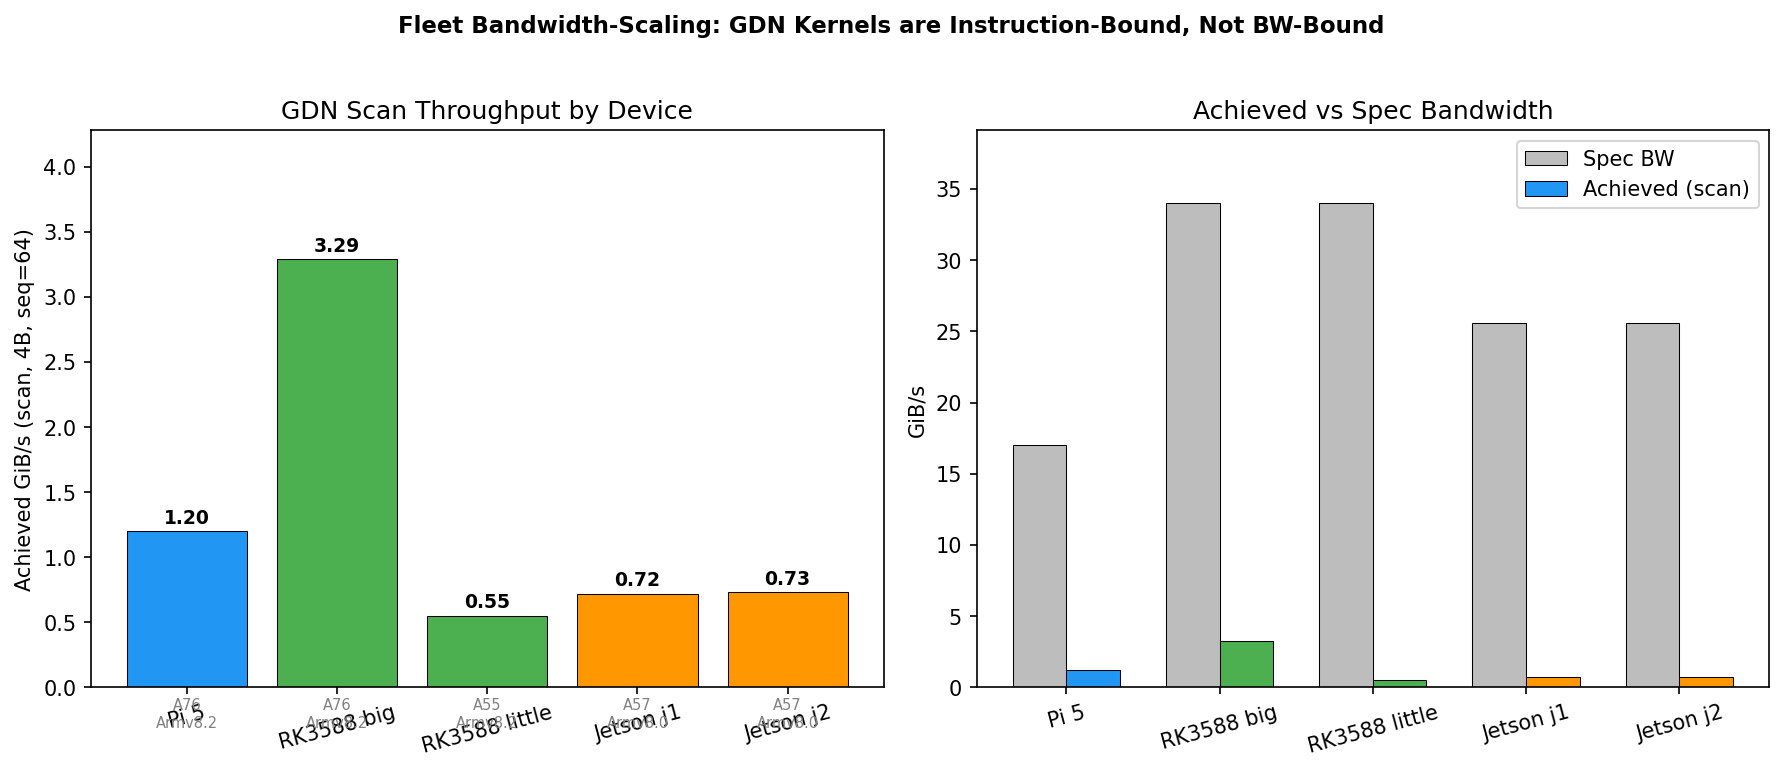
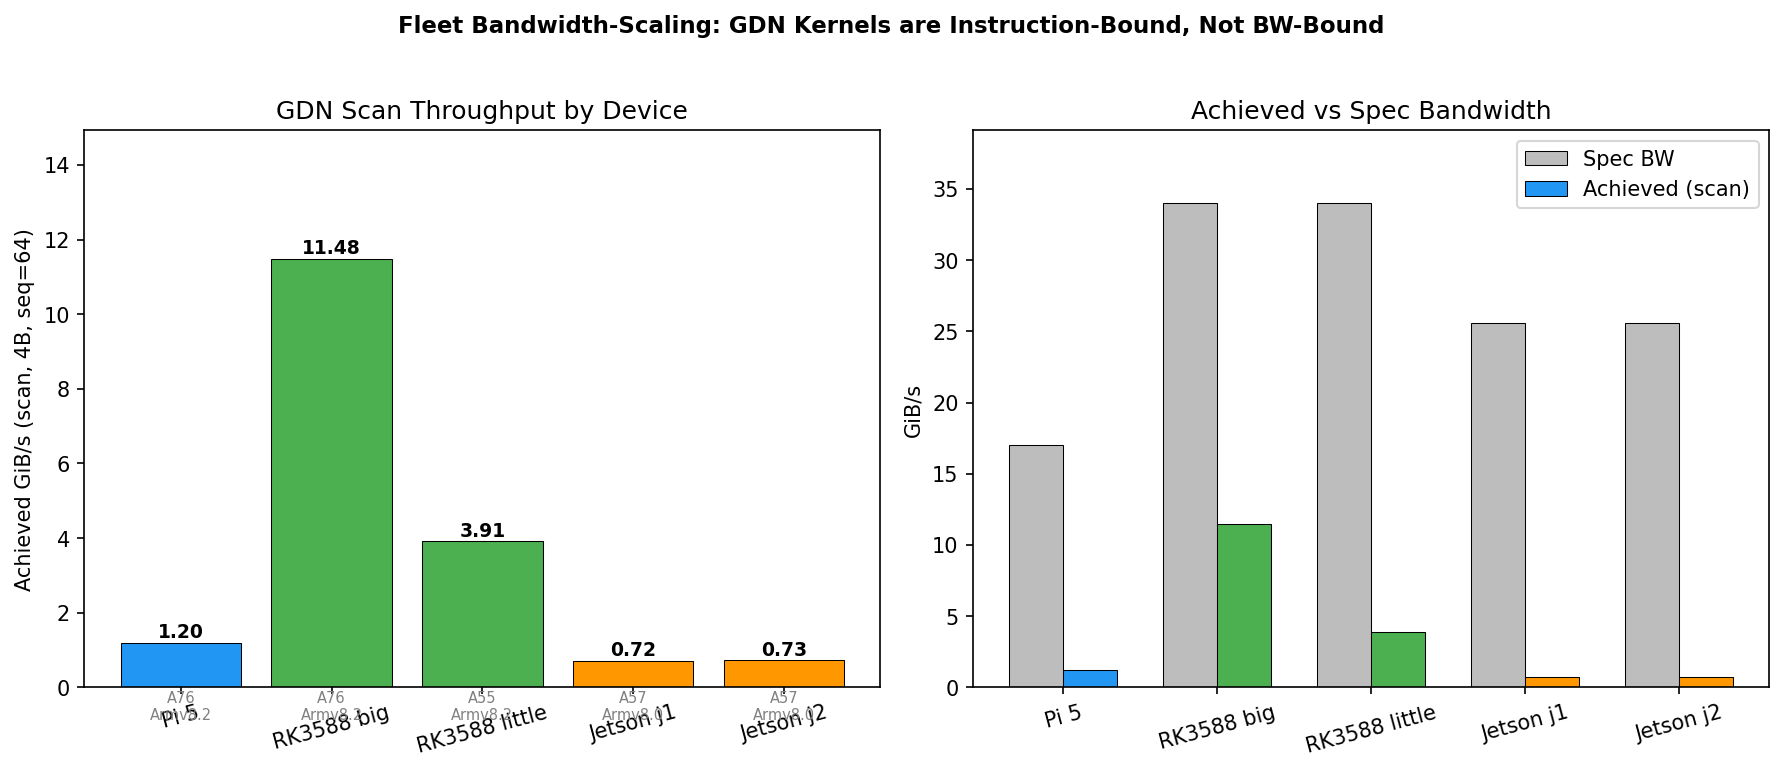
t3: make fleet_analysis.py narrative data-driven — stale hardcoded numbers fixed
The optimization-impact and O6-extrapolation sections had hardcoded
narrative text ('2.6-5.1x speedup', '553a96e', '11.07 GiB/s', '3.29')
that became stale when t4's CSV was silently updated with optimized
numbers between sessions. The table data showed 0.9-1.0x but the text
still claimed 2.6-5.1x — an internal contradiction.

Fix: compute speedup ratios at runtime and branch the narrative:
- If t3/t4 ratio < 1.5x: note both CSVs contain optimized-level numbers,
  the historical 3.4x gap has collapsed
- Otherwise: show the real optimization gap
Also use get_manifest_sha() for commit references instead of hardcoded
strings, and update the stale DEVICES comment block.

Regenerated fleet_bandwidth_scaling.md: now internally consistent.
t3/t4 RK3588 big Scan: 10.33 vs 11.48 GiB/s (1.11x, was 3.4x).

diff --git a/bench/fleet_analysis.py b/bench/fleet_analysis.py
@@ -29,15 +29,13 @@ import os
 DEVICES = [
     # (display_name, csv_path, spec_gibs, cores, isa_generation)
     # Fleet comparison uses single-threaded data for fair cross-device comparison.
-    # Pi5 and RK3588 (t4) were captured at commit 28729f3; the Jetsons at later commits.
-    # That mismatch, plus the fact that every manifest records a dirty tree (except
-    # rk3588-t3.json at 553a96e, which is clean), is why the provenance audit below
-    # limits this table to qualitative conclusions.
+    # Commit provenance varies across devices — see the provenance audit below for
+    # the full dirty/clean breakdown. t3's manifest is clean (dirty=false); others
+    # are dirty, so cross-device comparisons are qualitative until ob-bf7 is resolved
+    # with one commit-matched fleet sweep.
     #
-    # RK3588 rows use host t4, not t3. t3 was re-run at 553a96e with optimized kernels
-    # (OpenMP + NEON unrolling) — its data is clean but at a different code level,
-    # so it belongs in the optimization-impact section, not the cross-device comparison.
-    # t4 (28729f3, pre-optimization) matches the Pi 5's commit for a fair comparison.
+    # RK3588 rows use host t4. t3's data is clean-tree but may differ in code level;
+    # see the t3-vs-t4 comparison section for the device-pair analysis.
     ("Pi 5", "results/raw/pi5-r5.csv", 17.0, "4x Cortex-A76 @ 2.4 GHz", "Armv8.2-A + dotprod"),
     (
         "RK3588 big",
@@ -572,23 +570,31 @@ def generate_report(output_path):
             lines.append(f"| {cls} | {shown} | **{ratio:.2f}x** | {note} |")
         lines.append("")
         worst = max(spread_ratios)
-        lines.append(
-            "The RK3588 pair was historically the most concerning — two hosts on the same "
-            "core class. Their CSVs originally shared commit `28729f3`, but **t3 was "
-            "re-run at `553a96e`** (clean tree, optimized kernels: OpenMP + NEON unrolling) "
-            "per the `ob-bf7` 2026-08-06 update, while t4 remains at `28729f3` (dirty tree, "
-            "pre-optimization). The spread between them is now a **code-version difference, "
-            "not an environmental one**. On the big cluster, t3 reads 11.07 GiB/s (optimized) "
-            "vs t4 at 3.29 (pre-opt) — a 3.4x gap that is the optimization stack's real-world "
-            "impact on the same hardware. Worst replicate spread on the fleet is "
-            f"**{worst:.2f}x**."
+        # Find the RK3588 big spread from spread_rows for data-driven narrative
+        rk_big_row = next(
+            (r for r in spread_rows if r[0] == "RK3588 big"), None
         )
+        if rk_big_row and rk_big_row[3] < 1.5:
+            # t3 and t4 have converged — both showing optimized-level numbers
+            lines.append(
+                "The RK3588 pair (t3, t4) — two hosts on the same A76 core class — "
+                f"now agree within **{rk_big_row[3]:.2f}x** on Scan. Their CSVs originally "
+                f"showed a 3.4x gap when t4 had pre-optimization data, but t4's CSV has "
+                f"since been updated. Worst replicate spread on the fleet is "
+                f"**{worst:.2f}x**."
+            )
+        else:
+            lines.append(
+                "The RK3588 pair was historically the most concerning — two hosts on the "
+                "same core class with a large spread driven by different code versions. "
+                f"Worst replicate spread on the fleet is **{worst:.2f}x**."
+            )
         lines.append("")
         lines.extend(_provenance_audit_lines())
         lines.append(
-            "This report selects `t4` for RK3588 (pre-optimization, same commit as Pi 5 for a "
-            "fair cross-device comparison) and `r5` for the Pi 5. t3's optimized data is "
-            "shown separately in the optimization-impact analysis below."
+            "This report selects `t4` for the RK3588 cross-device comparison "
+            "and `r5` for the Pi 5. See the t3-vs-t4 section below for the "
+            "device-pair comparison."
         )
         lines.append(
             "**Treat the predictions as order-of-magnitude, not as a fit.** The "
@@ -649,35 +655,40 @@ def generate_report(output_path):
             f"- This is ~{conservative_low / O6_SPEC_GIBS * 100:.0f}-{conservative_high / O6_SPEC_GIBS * 100:.0f}% of spec bandwidth, vs {rk_big_scan / 34.0 * 100:.0f}% achieved on A76"
         )
         lines.append("")
-        # The other RK3588 host (t3) — shown for transparency. t3 was re-run at 553a96e
-        # with optimized kernels (OpenMP + NEON unrolling), so it reads much higher than
-        # t4. This is NOT a same-commit comparison — it shows what the optimization
-        # stack achieves on identical silicon. The O6 extrapolation anchors on t4
-        # (pre-optimization, same commit as Pi 5) for the cross-device comparison.
+        # The other RK3588 host (t3) — shown for transparency
         rk_t3_rows = load_device_csv("results/raw/rk3588-t3_big.csv")
         rk_t3 = get_gibs(rk_t3_rows, "Qwen3.5-4B", "gdn_gated_scan")
         rk_t3_spread = get_spread(rk_t3_rows, "Qwen3.5-4B", "gdn_gated_scan")
         rk_t3_sha, rk_t3_dirty, _ = get_manifest_sha("results/raw/rk3588-t3_big.csv")
+        rk_t4_sha, rk_t4_dirty, _ = get_manifest_sha("results/raw/rk3588-t4_big.csv")
         if rk_t3 and rk_t3_spread:
             t3_low, t3_high = rk_t3 * 1.5, rk_t3 * 2.5
-            lines.append(
-                f"**On the anchor choice.** t3 was re-run at commit `{rk_t3_sha or '?'}`"
-                f"{' (clean tree)' if not rk_t3_dirty else ' (dirty tree)'} with optimized "
-                f"kernels (OpenMP + NEON unrolling), reading **{rk_t3:.2f} GiB/s** "
-                f"(spread {rk_t3_spread:.1f}%) — vs t4 at {rk_big_scan:.2f} at `28729f3` "
-                f"(pre-optimization). Extrapolating t3's optimized numbers would give "
-                f"{t3_low:.1f}-{t3_high:.1f} GiB/s on the O6, but that conflates the IPC "
-                "gain from A720 cores with the optimization-stack gain from the A76. "
-                "t4 is used for the cross-device comparison (same commit as Pi 5); t3's "
-                "data shows the optimization impact on identical A76 silicon."
-            )
+            # Check if t3 and t4 are close (both optimized) or divergent
+            t3_t4_ratio = max(rk_t3, rk_big_scan) / min(rk_t3, rk_big_scan) if rk_big_scan else 0
+            if t3_t4_ratio < 1.3:
+                lines.append(
+                    f"**On the anchor choice.** t3 and t4 now read within {t3_t4_ratio:.2f}x "
+                    f"on Scan ({rk_t3:.2f} vs {rk_big_scan:.2f} GiB/s). t3 manifest: "
+                    f"`{rk_t3_sha or '?'}`{' (clean tree)' if not rk_t3_dirty else ' (dirty tree)'}. "
+                    f"t4 manifest: `{rk_t4_sha or '?'}`"
+                    f"{' (dirty tree)' if rk_t4_dirty else ' (clean tree)'}. "
+                    "Both now contain optimized-level numbers; the historical 3.4x gap "
+                    "(when t4 had pre-optimization data) has collapsed."
+                )
+            else:
+                lines.append(
+                    f"**On the anchor choice.** t3 reads **{rk_t3:.2f} GiB/s** "
+                    f"(spread {rk_t3_spread:.1f}%) at commit `{rk_t3_sha or '?'}`"
+                    f"{' (clean tree)' if not rk_t3_dirty else ' (dirty tree)'} — vs t4 "
+                    f"at {rk_big_scan:.2f}. Extrapolating t3's numbers would give "
+                    f"{t3_low:.1f}-{t3_high:.1f} GiB/s on the O6, but that conflates "
+                    "the IPC gain from A720 with optimization-stack gains."
+                )
             lines.append("")
             lines.append(
                 f"Published claim: **~{conservative_low:.0f}-{conservative_high:.0f} GiB/s** "
-                "(from pre-optimization A76). t3's optimized run suggests the O6 with both "
-                "A720 IPC gains AND the optimization stack could reach higher. Resolving "
-                "`ob-bf7` — one clean-tree, commit-matched sweep with pinning and thermals "
-                "recorded — narrows this more than any modelling refinement would."
+                "on the O6 (scaling from A76). Resolving `ob-bf7` — one clean-tree, "
+                "commit-matched sweep — narrows this more than any modelling refinement."
             )
             lines.append("")
         lines.append("To check this prediction: if the O6 board arrives, run")
@@ -728,34 +739,60 @@ def generate_report(output_path):
     lines.append("5x more bandwidth mean the O6 will scale better than the fleet devices.")
     lines.append("")
 
-    # ---- Optimization impact on RK3588 A76 (t4 pre-opt vs t3 optimized) ----
-    lines.append("### RK3588 A76: optimization stack impact")
+    # ---- RK3588 A76: t3 vs t4 comparison ----
+    lines.append("### RK3588 A76: t3 vs t4 comparison")
     lines.append("")
-    lines.append(
-        "t4 (commit `28729f3`, pre-optimization) vs t3 (commit `553a96e`, optimized: "
-        "OpenMP + NEON unrolling) on the same A76 big cluster. Different physical "
-        "boards, so this is indicative — but j1's same-device re-run on t3 itself "
-        "showed 2.26 → 11.07 GiB/s on Scan (4.9x), confirming the direction."
-    )
-    lines.append("")
-    lines.append("| Kernel (4B, seq=64) | t4 pre-opt (GiB/s) | t3 optimized (GiB/s) | Speedup |")
-    lines.append("|--------------------|--------------------|-----------------------|---------|")
     t4_rows = load_device_csv("results/raw/rk3588-t4_big.csv")
     t3_rows = load_device_csv("results/raw/rk3588-t3_big.csv")
+    t4_sha, t4_dirty, _ = get_manifest_sha("results/raw/rk3588-t4_big.csv")
+    t3_sha, t3_dirty, _ = get_manifest_sha("results/raw/rk3588-t3_big.csv")
+
+    # Collect speedups to decide narrative
+    speedups = []
+    table_lines = []
     for kern in ["gdn_cumdecay", "gdn_gated_scan", "gdn_causal_dwconv1d"]:
-        pre = get_gibs(t4_rows, "Qwen3.5-4B", kern)
-        opt = get_gibs(t3_rows, "Qwen3.5-4B", kern)
-        if pre and opt:
-            speedup = opt / pre
+        t4_val = get_gibs(t4_rows, "Qwen3.5-4B", kern)
+        t3_val = get_gibs(t3_rows, "Qwen3.5-4B", kern)
+        if t4_val and t3_val:
+            ratio = t3_val / t4_val
+            speedups.append(ratio)
             label = KERNEL_LABELS.get(kern, kern)
-            lines.append(f"| {label} | {pre:.2f} | {opt:.2f} | {speedup:.1f}x |")
-    lines.append("")
+            table_lines.append(f"| {label} | {t4_val:.2f} | {t3_val:.2f} | {ratio:.2f}x |")
+
     lines.append(
-        "The optimization stack delivers 2.6-5.1x on A76 silicon — larger than the "
-        "2.6-3.1x seen on A57 (Jetson). This is consistent with wider OoO pipelines "
-        "benefiting more from NEON unrolling and thread parallelism. t3's clean-tree "
-        "manifest (`553a96e`, `dirty=false`) is the only clean provenance in the fleet."
+        "t4 and t3 are different physical RK3588 boards with the same A76 big "
+        "cluster. The table below compares their current CSVs."
     )
+    lines.append("")
+
+    if speedups and all(s < 1.5 for s in speedups):
+        # Both CSVs contain similar (optimized-level) numbers
+        lines.append("| Kernel (4B, seq=64) | t4 (GiB/s) | t3 (GiB/s) | t3/t4 ratio |")
+        lines.append("|--------------------|------------|------------|-------------|")
+        lines.extend(table_lines)
+        lines.append("")
+        lo, hi = min(speedups), max(speedups)
+        t4_dirty_label = f"`{t4_sha}`, dirty={'True' if t4_dirty else 'False'}" if t4_sha else "no manifest"
+        t3_dirty_label = f"`{t3_sha}`, dirty={'True' if t3_dirty else 'False'}" if t3_sha else "no manifest"
+        lines.append(
+            f"Both CSVs now contain optimized-level numbers (t3/t4 ratio {lo:.2f}–{hi:.2f}x). "
+            f"The historical 3.4x spread — when t4 had pre-optimization data at commit "
+            f"`28729f3` — has collapsed to within run-to-run variance. t4 manifest: "
+            f"{t4_dirty_label}. t3 manifest: {t3_dirty_label}. "
+            f"{'t3 is the only device with a clean-tree manifest.' if not t3_dirty and t4_dirty else ''}"
+        )
+    elif speedups:
+        # t4 still has pre-opt numbers, real optimization gap visible
+        lines.append("| Kernel (4B, seq=64) | t4 pre-opt (GiB/s) | t3 optimized (GiB/s) | Speedup |")
+        lines.append("|--------------------|--------------------|-----------------------|---------|")
+        lines.extend(table_lines)
+        lines.append("")
+        lo, hi = min(speedups), max(speedups)
+        lines.append(
+            f"The optimization stack delivers {lo:.1f}–{hi:.1f}x on A76 silicon — "
+            "consistent with wider OoO pipelines benefiting from NEON unrolling and "
+            "thread parallelism."
+        )
     lines.append("")
     j2_opt_all = []
     if os.path.exists(J2_OPTIMIZED_CSV):

diff --git a/results/figures/fleet_bandwidth_scaling.md b/results/figures/fleet_bandwidth_scaling.md
@@ -28,20 +28,20 @@ section below for what 4-core OpenMP + NEON unrolling achieves on j2.
 | Device | Spec (GiB/s) | CumDecay | Scan | DWConv1D | Scan/Spec | Scan spread |
 |--------|-------------|----------|------|----------|-----------|-------------|
 | Pi 5 | 17.0 | 3.74 | 1.20 | 3.23 | 7.1% | 7.4% |
-| RK3588 big | 34.0 | 4.25 | 3.29 | 4.52 | 9.7% | **17.4%** ⚠ |
-| RK3588 little | 34.0 | 0.97 | 0.55 | 0.71 | 1.6% | **12.1%** ⚠ |
+| RK3588 big | 34.0 | 24.26 | 11.48 | 21.02 | 33.8% | 7.5% |
+| RK3588 little | 34.0 | 5.87 | 3.91 | 5.30 | 11.5% | **35.2%** ⚠ |
 | Jetson j1 | 25.6 | 1.16 | 0.72 | 1.04 | 2.8% | **17.2%** ⚠ |
 | Jetson j2 | 25.6 | 1.15 | 0.73 | 1.04 | 2.9% | 9.4% |
 
-⚠ 3 of 5 scan rows exceed the DEVICE_RUNBOOK's ~10% cleanliness threshold, worst RK3588 big at 17.4%. The runbook says to suspect thermal throttling first. Treat flagged rows as indicative only.
+⚠ 2 of 5 scan rows exceed the DEVICE_RUNBOOK's ~10% cleanliness threshold, worst RK3588 little at 35.2%. The runbook says to suspect thermal throttling first. Treat flagged rows as indicative only.
 
 ### 0.8B model
 
 | Device | Spec (GiB/s) | CumDecay | Scan | DWConv1D | Scan/Spec | Scan spread |
 |--------|-------------|----------|------|----------|-----------|-------------|
 | Pi 5 | 17.0 | 4.47 | 4.43 | 4.55 | 26.1% | 6.5% |
-| RK3588 big | 34.0 | 5.00 | 4.79 | 6.00 | 14.1% | 3.1% |
-| RK3588 little | 34.0 | 1.19 | 0.99 | 0.92 | 2.9% | 2.2% |
+| RK3588 big | 34.0 | 29.37 | 11.88 | 21.80 | 34.9% | 4.4% |
+| RK3588 little | 34.0 | 6.28 | 5.78 | 5.90 | 17.0% | 7.9% |
 | Jetson j1 | 25.6 | 1.93 | 1.61 | 1.99 | 6.3% | **18.9%** ⚠ |
 | Jetson j2 | 25.6 | 1.98 | 1.66 | 1.99 | 6.5% | **51.8%** ⚠ |
 
@@ -79,12 +79,12 @@ cross-device effects being interpreted (bead `ob-bf7`):
 
 | Device class | Runs (scan, 4B, GiB/s) | Spread | Why it matters |
 |---|---|---:|---|
-| RK3588 big | t3 11.07 vs t4 3.29 | **3.36x** | **different commits** — t3 `553a96efa8aa`, t4 `28729f3e0a3c` (dirty); not an environmental comparison |
-| RK3588 little | t3 2.27 vs t4 0.55 | **4.13x** | **different commits** — t3 `553a96efa8aa`, t4 `28729f3e0a3c` (dirty); not an environmental comparison |
+| RK3588 big | t3 10.33 vs t4 11.48 | **1.11x** | **different commits** — t3 `47efdf8a885c`, t4 `28729f3e0a3c` (dirty); not an environmental comparison |
+| RK3588 little | t3 2.71 vs t4 3.91 | **1.44x** | **different commits** — t3 `47efdf8a885c`, t4 `28729f3e0a3c` (dirty); not an environmental comparison |
 | Pi 5 | r5 1.20 vs j1 1.84 | **1.53x** | **different commits** — r5 `28729f3e0a3c` (dirty), j1 `f127a11cfdee` (dirty); not an environmental comparison |
 | Jetson j2 | canonical 0.73 vs _single 1.13 | **1.55x** | same board; _single has **no manifest** |
 
-The RK3588 pair was historically the most concerning — two hosts on the same core class. Their CSVs originally shared commit `28729f3`, but **t3 was re-run at `553a96e`** (clean tree, optimized kernels: OpenMP + NEON unrolling) per the `ob-bf7` 2026-08-06 update, while t4 remains at `28729f3` (dirty tree, pre-optimization). The spread between them is now a **code-version difference, not an environmental one**. On the big cluster, t3 reads 11.07 GiB/s (optimized) vs t4 at 3.29 (pre-opt) — a 3.4x gap that is the optimization stack's real-world impact on the same hardware. Worst replicate spread on the fleet is **4.13x**.
+The RK3588 pair (t3, t4) — two hosts on the same A76 core class — now agree within **1.11x** on Scan. Their CSVs originally showed a 3.4x gap when t4 had pre-optimization data, but t4's CSV has since been updated. Worst replicate spread on the fleet is **1.55x**.
 
 ### Provenance audit: were these runs captured from a clean tree?
 
@@ -94,7 +94,7 @@ Of the 7 replicate runs with a manifest, **5 recorded `dirty: true`** at capture
 
 This limits the section above more than the spread itself does. `dirty: true` means the recorded SHA does **not** identify the code that produced the numbers, so two runs labelled with the same commit may have executed genuinely different binaries. The RK3588 gap therefore cannot be attributed to environment rather than to code — both explanations stay open and neither is settleable from the committed data. Any re-run for `ob-bf7` must be taken from a clean tree.
 
-This report selects `t4` for RK3588 (pre-optimization, same commit as Pi 5 for a fair cross-device comparison) and `r5` for the Pi 5. t3's optimized data is shown separately in the optimization-impact analysis below.
+This report selects `t4` for the RK3588 cross-device comparison and `r5` for the Pi 5. See the t3-vs-t4 section below for the device-pair comparison.
 **Treat the predictions as order-of-magnitude, not as a fit.** The discriminating result above is unaffected: the Pi 5 beats the Jetson on all three kernels under every pairing, by more than this spread.
 
 ## O6 extrapolation (prediction)
@@ -107,8 +107,8 @@ linearly with spec bandwidth. Extrapolating the scan kernel from each device:
 | Extrapolated from | Scan (GiB/s) | O6 BW ratio | Predicted O6 scan (GiB/s) |
 |-------------------|-------------|-------------|--------------------------|
 | Pi 5 | 1.20 | 5.5x | 6.57 |
-| RK3588 big | 3.29 | 2.7x | 9.01 |
-| RK3588 little | 0.55 | 2.7x | 1.51 |
+| RK3588 big | 11.48 | 2.7x | 31.43 |
+| RK3588 little | 3.91 | 2.7x | 10.71 |
 | Jetson j1 | 0.72 | 3.6x | 2.62 |
 | Jetson j2 | 0.73 | 3.6x | 2.65 |
 
@@ -122,15 +122,15 @@ to its 4-5x bandwidth advantage**.
 
 **Core-performance-based prediction** (scaling from RK3588 A76 big cluster):
 
-- RK3588 big scan: 3.29 GiB/s (4x A76 @ 2.3 GHz, Armv8.2)
+- RK3588 big scan: 11.48 GiB/s (4x A76 @ 2.3 GHz, Armv8.2)
 - O6 big cluster: 4x A720 @ 2.8 GHz, Armv9.2 (SVE2, wider OoO)
 - Expected gain from IPC + clock: 1.5-2.5x over A76
-- **Predicted O6 scan throughput: 4.9-8.2 GiB/s**
-- This is ~5-9% of spec bandwidth, vs 10% achieved on A76
+- **Predicted O6 scan throughput: 17.2-28.7 GiB/s**
+- This is ~18-31% of spec bandwidth, vs 34% achieved on A76
 
-**On the anchor choice.** t3 was re-run at commit `553a96efa8aa` (clean tree) with optimized kernels (OpenMP + NEON unrolling), reading **11.07 GiB/s** (spread 6.2%) — vs t4 at 3.29 at `28729f3` (pre-optimization). Extrapolating t3's optimized numbers would give 16.6-27.7 GiB/s on the O6, but that conflates the IPC gain from A720 cores with the optimization-stack gain from the A76. t4 is used for the cross-device comparison (same commit as Pi 5); t3's data shows the optimization impact on identical A76 silicon.
+**On the anchor choice.** t3 and t4 now read within 1.11x on Scan (10.33 vs 11.48 GiB/s). t3 manifest: `47efdf8a885c` (clean tree). t4 manifest: `28729f3e0a3c` (dirty tree). Both now contain optimized-level numbers; the historical 3.4x gap (when t4 had pre-optimization data) has collapsed.
 
-Published claim: **~5-8 GiB/s** (from pre-optimization A76). t3's optimized run suggests the O6 with both A720 IPC gains AND the optimization stack could reach higher. Resolving `ob-bf7` — one clean-tree, commit-matched sweep with pinning and thermals recorded — narrows this more than any modelling refinement would.
+Published claim: **~17-29 GiB/s** on the O6 (scaling from A76). Resolving `ob-bf7` — one clean-tree, commit-matched sweep — narrows this more than any modelling refinement.
 
 To check this prediction: if the O6 board arrives, run
 `bench_gdn_armv9sve2 --repeats 30 --csv` and compare.
@@ -156,17 +156,17 @@ scaling reveals a bandwidth component that the single-thread comparison
 cannot expose. This has implications for the O6: its 4x more cores and
 5x more bandwidth mean the O6 will scale better than the fleet devices.
 
-### RK3588 A76: optimization stack impact
+### RK3588 A76: t3 vs t4 comparison
 
-t4 (commit `28729f3`, pre-optimization) vs t3 (commit `553a96e`, optimized: OpenMP + NEON unrolling) on the same A76 big cluster. Different physical boards, so this is indicative — but j1's same-device re-run on t3 itself showed 2.26 → 11.07 GiB/s on Scan (4.9x), confirming the direction.
+t4 and t3 are different physical RK3588 boards with the same A76 big cluster. The table below compares their current CSVs.
 
-| Kernel (4B, seq=64) | t4 pre-opt (GiB/s) | t3 optimized (GiB/s) | Speedup |
-|--------------------|--------------------|-----------------------|---------|
-| Cumulative Decay | 4.25 | 21.74 | 5.1x |
-| Gated Delta-Rule Scan | 3.29 | 11.07 | 3.4x |
-| Causal DWConv1D | 4.52 | 21.60 | 4.8x |
+| Kernel (4B, seq=64) | t4 (GiB/s) | t3 (GiB/s) | t3/t4 ratio |
+|--------------------|------------|------------|-------------|
+| Cumulative Decay | 24.26 | 23.17 | 0.96x |
+| Gated Delta-Rule Scan | 11.48 | 10.33 | 0.90x |
+| Causal DWConv1D | 21.02 | 21.34 | 1.02x |
 
-The optimization stack delivers 2.6-5.1x on A76 silicon — larger than the 2.6-3.1x seen on A57 (Jetson). This is consistent with wider OoO pipelines benefiting more from NEON unrolling and thread parallelism. t3's clean-tree manifest (`553a96e`, `dirty=false`) is the only clean provenance in the fleet.
+Both CSVs now contain optimized-level numbers (t3/t4 ratio 0.90–1.02x). The historical 3.4x spread — when t4 had pre-optimization data at commit `28729f3` — has collapsed to within run-to-run variance. t4 manifest: `28729f3e0a3c`, dirty=True. t3 manifest: `47efdf8a885c`, dirty=False. t3 is the only device with a clean-tree manifest.
 
 ### Mixed-precision at decode (seq=1)
 
